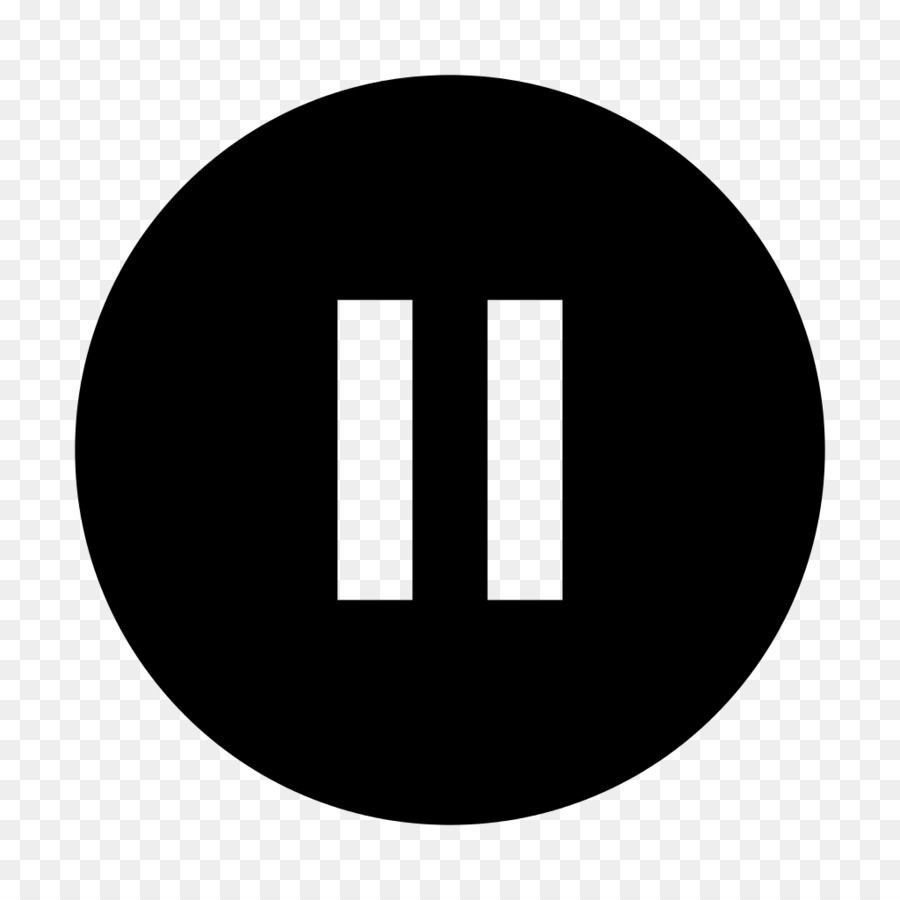
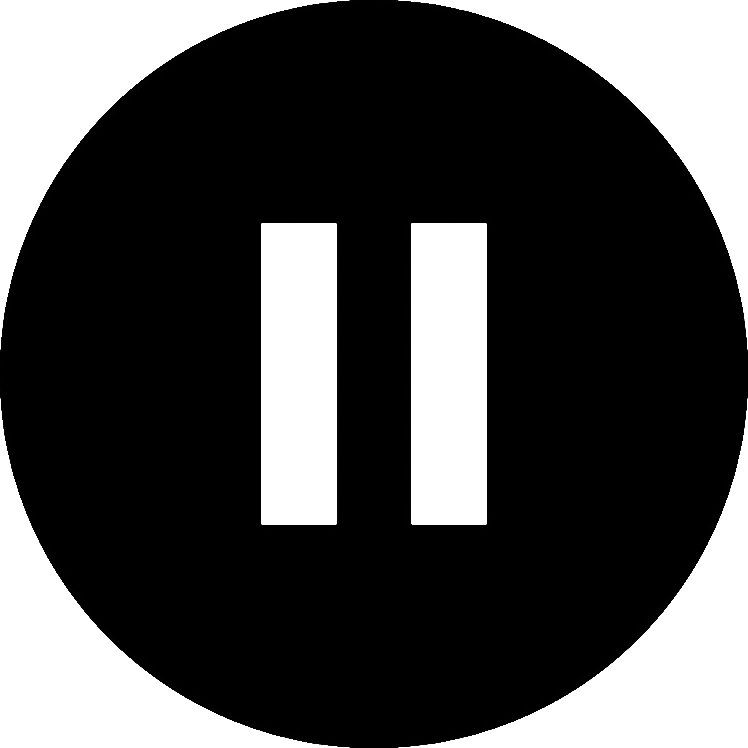
drill08-2 modify pause_state

Changed region(s): [[0.0, 0.0, 1.0, 1.0], [0.5227, 0.2767, 0.6765, 0.7072], [0.3382, 0.2767, 0.4612, 0.7072]]

diff --git a/DRILL_08/pause_state.py b/DRILL_08/pause_state.py
@@ -4,11 +4,11 @@ import main_state
 
 name = "PauseState"
 image = None
-
+cnt = 0
 
 def enter():
     global image
-    image = load_image('pause2.png')
+    image = load_image('pause.png')
 
 
 def exit():
@@ -29,8 +29,15 @@ def handle_events():
 
 
 def draw():
+    global cnt
     clear_canvas()
-    image.draw(400,300)
+    game_framework.stack[-2].draw()
+    cnt += 1
+    if cnt > 50:
+        image.draw(400,300,300,300)
+        if cnt == 100:
+            cnt = 0
+
     update_canvas()
 
 
